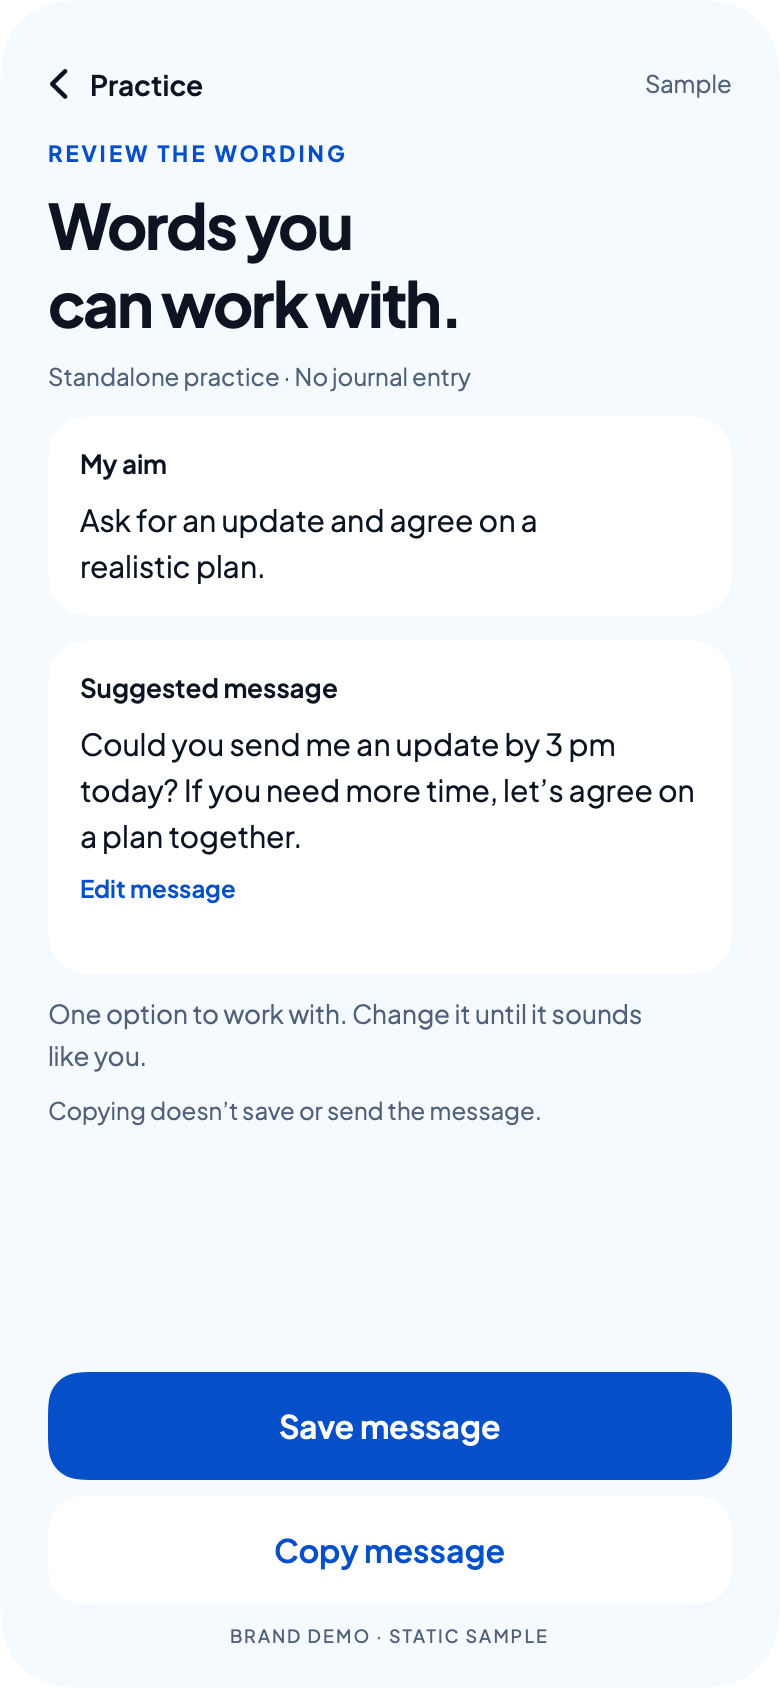
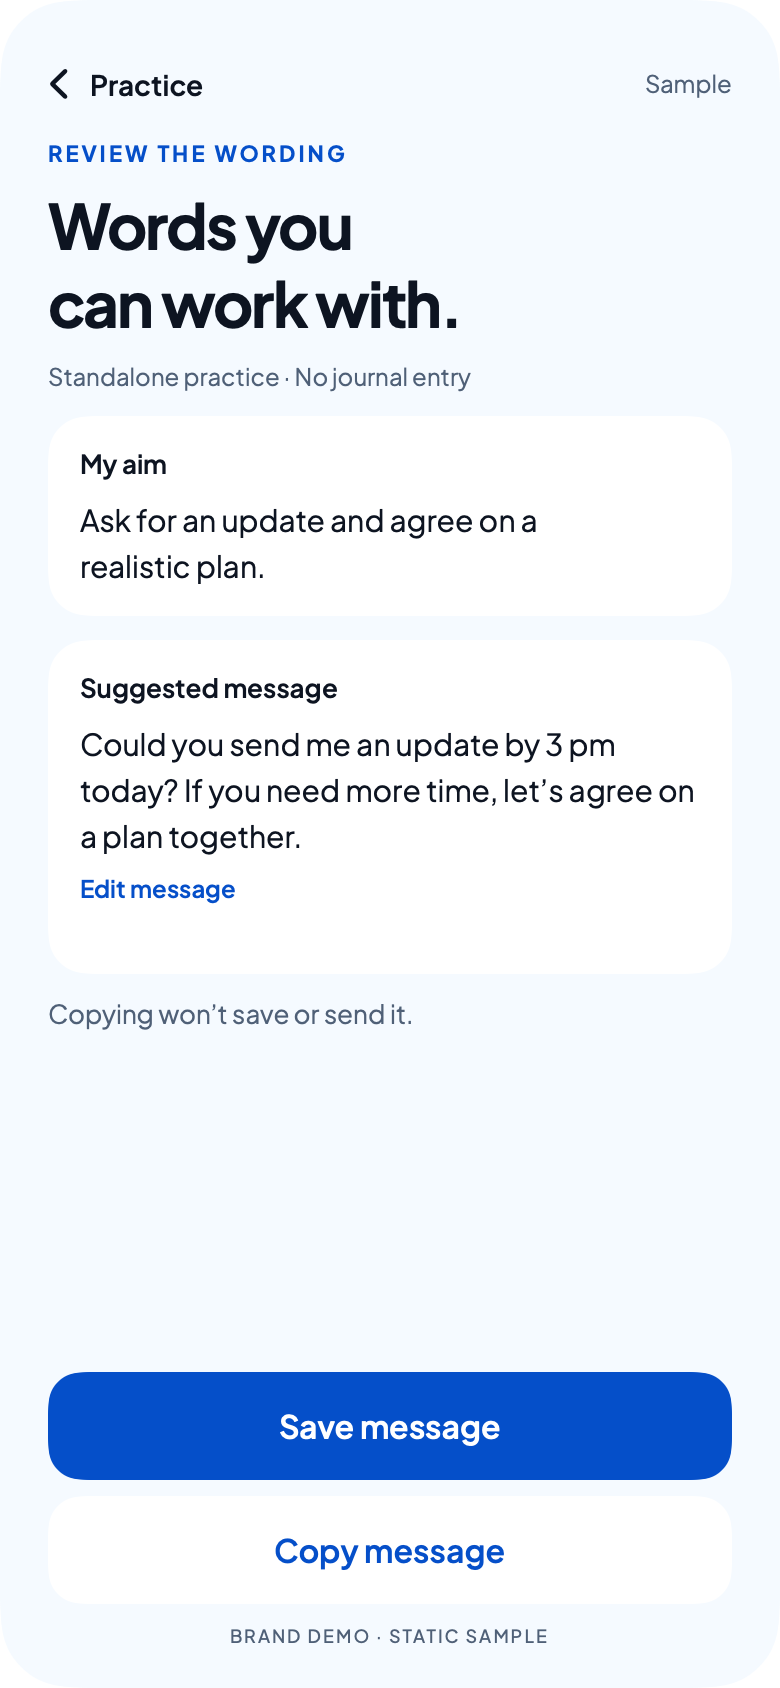
feat(prototype): trim Today, Journal and Practice board copy
Apply the concise-copy proposals: one heading, at most one short line,
one primary action. Drop the Today eyebrow and supporting lines, shorten
capture/reflection/practice helpers, collapse the next-step block into
one link, say "Copying won't save or send it" once, and remove "Back to
Journal/Practice" links that duplicate the Back control. Sample
eyebrows stay (milestone sample-label rule). Renders regenerated.

The CircleU Preview host can now show these boards with --board for
Simulator review and accessibility audits.

Changed region(s): [[0.0615, 0.5853, 0.8308, 0.6777], [0.3077, 0.6469, 0.6769, 0.6777]]

diff --git a/Prototypes/CircleUVisualPrototype/Sources/CircleUVisualPrototype/BrandJourneyPreview.swift b/Prototypes/CircleUVisualPrototype/Sources/CircleUVisualPrototype/BrandJourneyPreview.swift
@@ -96,7 +96,7 @@ public struct BrandJourneyPreview: View {
     private var content: some View {
         switch screen {
         case .capture:
-            BrandFixture.detail(iconLed ? "What happened?" : "What happened, and what matters to you?")
+            BrandFixture.detail("What happened?")
             block("Your words", text: originalWords, minimumHeight: 185)
             if iconLed {
                 HStack(spacing: 10) {
@@ -107,16 +107,14 @@ public struct BrandJourneyPreview: View {
             } else {
                 HStack(spacing: 8) {
                     Image(systemName: "mic").font(.system(size: 14))
-                    Text("Prefer to speak? Record your words.").font(BrandDemoFont.font(12, .medium))
+                    Text("Record").font(BrandDemoFont.font(12, .medium))
                 }
                 .foregroundStyle(BrandDemoColor.blue).padding(.vertical, 4)
-                BrandFixture.detail("You can keep just your words. A reflection and next step are optional.", size: 13)
             }
         case .reflection:
             if !iconLed { BrandFixture.detail("A suggestion to consider. Change anything that doesn’t fit.") }
             block("My words", text: originalWords, edit: "Edit my words")
             block("Suggested reflection", text: "You might feel frustrated and worried. A clear update and a shared plan may help.", edit: "Edit reflection")
-            if !iconLed { BrandFixture.detail("Your words stay separate from this interpretation.", size: 12) }
         case .entry:
             if iconLed { chip("Saved · 24 Oct · 10:30 am", symbol: "checkmark.circle") }
             else { BrandFixture.detail("24 October 2026 · 10:30 am", size: 12) }
@@ -131,13 +129,9 @@ public struct BrandJourneyPreview: View {
                 }
                 .padding(16).background(.white, in: RoundedRectangle(cornerRadius: 18))
             } else {
-                VStack(alignment: .leading, spacing: 7) {
-                    Text("Next step · optional").font(BrandDemoFont.font(13, .semibold))
-                    Text("No step chosen").font(BrandDemoFont.font(13)).foregroundStyle(BrandDemoColor.muted)
-                    Text("Add a next step").font(BrandDemoFont.font(12, .semibold)).foregroundStyle(BrandDemoColor.blue)
-                }
-                .padding(14).frame(maxWidth: .infinity, alignment: .leading)
-                .overlay(RoundedRectangle(cornerRadius: 18).stroke(BrandDemoColor.blue.opacity(0.13)))
+                Text("Add a next step").font(BrandDemoFont.font(14, .semibold)).foregroundStyle(BrandDemoColor.blue)
+                    .padding(14).frame(maxWidth: .infinity, alignment: .leading)
+                    .overlay(RoundedRectangle(cornerRadius: 18).stroke(BrandDemoColor.blue.opacity(0.13)))
             }
         case .practiceContext:
             if iconLed {
@@ -145,8 +139,8 @@ public struct BrandJourneyPreview: View {
                      symbol: linkedContext ? "link" : "bubble.left")
             } else {
                 BrandFixture.detail(linkedContext
-                    ? "Only this reflection is carried over. Check it before continuing."
-                    : "No journal entry needed. What would you like to say?")
+                    ? "Only this reflection is carried over."
+                    : "What would you like to say?")
             }
             if linkedContext {
                 block(updatedSource ? "Updated reflection · The group deadline" : "From · The group deadline",
@@ -162,7 +156,7 @@ public struct BrandJourneyPreview: View {
             block("My draft · optional", text: "Could you let me know where things stand?")
             if updatedSource {
                 if iconLed { note("Draft kept. Review earlier wording.", symbol: "exclamationmark.circle") }
-                else { BrandFixture.detail("Your draft stays here. Earlier wording needs review because the reflection changed.", size: 13) }
+                else { BrandFixture.detail("Draft kept. The reflection changed, so review the wording.", size: 13) }
             }
         case .wording:
             if iconLed { chip(linkedContext ? "From The group deadline" : "Standalone", symbol: linkedContext ? "link" : "bubble.left") }
@@ -171,15 +165,14 @@ public struct BrandJourneyPreview: View {
             block("Suggested message", text: message, edit: "Edit message", minimumHeight: 135)
             if iconLed { note("Copy won’t save or send.", symbol: "doc.on.doc") }
             else {
-                BrandFixture.detail("One option to work with. Change it until it sounds like you.", size: 13)
-                BrandFixture.detail("Copying doesn’t save or send the message.", size: 12)
+                BrandFixture.detail("Copying won’t save or send it.", size: 13)
             }
         case .practiceDetail:
             if iconLed { chip(linkedContext ? "From The group deadline" : "24 Oct · Standalone", symbol: linkedContext ? "link" : "clock") }
             else { BrandFixture.detail(linkedContext ? "Source · The group deadline" : "Standalone message · 24 October 2026", size: 12) }
             block("My message", text: message, edit: "Edit message", minimumHeight: 135)
             if iconLed { note("Saved · Not sent", symbol: "checkmark.circle") }
-            else { BrandFixture.detail("Saved here for you to revisit. Nothing is sent for you.", size: 13) }
+            else { BrandFixture.detail("Saved · not sent", size: 13) }
         }
     }
 
@@ -194,8 +187,6 @@ public struct BrandJourneyPreview: View {
             action("Save only my words", symbol: "square.and.arrow.down", primary: false)
         case .entry:
             action("Practice from this entry", symbol: "bubble.left.and.bubble.right")
-            Text("Back to Journal").font(BrandDemoFont.font(14, .semibold))
-                .foregroundStyle(BrandDemoColor.blue).frame(maxWidth: .infinity).frame(height: 34)
         case .practiceContext:
             action(updatedSource ? "Review updated wording" : "Find some words", symbol: updatedSource ? "arrow.clockwise" : "text.bubble")
             Text("Keep draft").font(BrandDemoFont.font(14, .semibold))
@@ -205,8 +196,6 @@ public struct BrandJourneyPreview: View {
             action("Copy message", symbol: "doc.on.doc", primary: false)
         case .practiceDetail:
             action("Copy message", symbol: "doc.on.doc")
-            Text("Back to Practice").font(BrandDemoFont.font(14, .semibold))
-                .foregroundStyle(BrandDemoColor.blue).frame(maxWidth: .infinity).frame(height: 34)
         }
     }
 

diff --git a/Prototypes/CircleUVisualPrototype/CircleUPreviewHost/CircleUPreviewHost/ContentView.swift b/Prototypes/CircleUVisualPrototype/CircleUPreviewHost/CircleUPreviewHost/ContentView.swift
@@ -4,20 +4,45 @@ import CircleUVisualPrototype
 struct ContentView: View {
     var body: some View {
         NavigationStack {
-            BrandOnboardingPreview(initialScreen: launchValue("--screen", default: .logIn),
-                                   recoveryScreen: launchValue("--recovery-screen", default: .logIn),
-                                   recoveryScenario: launchValue("--scenario", default: .available))
-                .toolbar(.hidden, for: .navigationBar)
+            Group {
+                if let board = launchArgument("--board") {
+                    boardView(board)
+                } else {
+                    BrandOnboardingPreview(initialScreen: launchValue("--screen", default: .logIn),
+                                           recoveryScreen: launchValue("--recovery-screen", default: .logIn),
+                                           recoveryScenario: launchValue("--scenario", default: .available))
+                }
+            }
+            .toolbar(.hidden, for: .navigationBar)
         }
+    }
+
+    /// Static Today/Journal/Practice boards for review and audits, e.g. `--board wording`.
+    /// They are fixed-size 390 × 844 specimens; nothing on them is interactive.
+    @ViewBuilder private func boardView(_ name: String) -> some View {
+        Group {
+            if let hub = PrototypeScreen.allCases.first(where: { $0.rawValue.lowercased() == name }) {
+                BrandHubPreview(screen: hub)
+            } else if let journey = BrandJourneyScreen(rawValue: name) {
+                BrandJourneyPreview(screen: journey)
+            } else {
+                Text("Unknown board: \(name)")
+            }
+        }
+        .frame(width: 390, height: 844)
     }
 
     /// Review-only fixture selection, e.g. `--recovery-screen newPassword`, so UI tests and
     /// audits can open any fixture without editing this file. Normal launches start at Log in.
     private func launchValue<Value: RawRepresentable>(_ flag: String, default fallback: Value) -> Value
     where Value.RawValue == String {
+        launchArgument(flag).flatMap(Value.init(rawValue:)) ?? fallback
+    }
+
+    private func launchArgument(_ flag: String) -> String? {
         let args = ProcessInfo.processInfo.arguments
-        guard let index = args.firstIndex(of: flag), args.indices.contains(index + 1) else { return fallback }
-        return Value(rawValue: args[index + 1]) ?? fallback
+        guard let index = args.firstIndex(of: flag), args.indices.contains(index + 1) else { return nil }
+        return args[index + 1]
     }
 }
 

diff --git a/Prototypes/CircleUVisualPrototype/Sources/CircleUVisualPrototype/BrandDemo.swift b/Prototypes/CircleUVisualPrototype/Sources/CircleUVisualPrototype/BrandDemo.swift
@@ -77,15 +77,9 @@ public struct BrandTodayPreview: View {
             }
             .padding(.top, 12)
 
-            Text("TODAY").font(BrandDemoFont.font(11, .bold)).tracking(2)
-                .foregroundStyle(BrandDemoColor.blue).padding(.top, 30)
             Text("What’s on\nyour mind?")
                 .font(BrandDemoFont.font(33, .bold)).tracking(-1.2)
-                .lineSpacing(0).padding(.top, 8)
-                .fixedSize(horizontal: false, vertical: true)
-            Text("Make sense of a moment.\nFind words that feel like you.")
-                .font(BrandDemoFont.font(16)).lineSpacing(5)
-                .foregroundStyle(BrandDemoColor.muted).padding(.top, 12)
+                .lineSpacing(0).padding(.top, 38)
                 .fixedSize(horizontal: false, vertical: true)
 
             BrandArtwork(name: "BrandAvatar")
@@ -112,9 +106,6 @@ public struct BrandTodayPreview: View {
             }
             .padding(14).background(.white, in: RoundedRectangle(cornerRadius: 18)).padding(.top, 12)
 
-            Text("Or find your words in Practice.")
-                .font(BrandDemoFont.font(13)).foregroundStyle(BrandDemoColor.muted)
-                .frame(maxWidth: .infinity).padding(.top, 18)
             Spacer(minLength: 12)
 
             HStack(spacing: 8) {

diff --git a/Prototypes/CircleUVisualPrototype/Sources/CircleUVisualPrototype/BrandFlowPreview.swift b/Prototypes/CircleUVisualPrototype/Sources/CircleUVisualPrototype/BrandFlowPreview.swift
@@ -92,11 +92,7 @@ public struct BrandHubPreview: View {
                         .frame(width: 48, height: 48)
                 }
                 .padding(.top, 12)
-                BrandFixture.title(screen == .journal ? "Your moments,\nready to revisit." : "Find words\nthat fit you.")
-                BrandFixture.detail(screen == .journal
-                    ? "Your words, reflections and next steps, together."
-                    : "Try a message on its own, or build on a reflection.")
-                    .padding(.top, 12)
+                BrandFixture.title(screen == .journal ? "Your moments" : "Find your words")
 
                 if screen == .journal {
                     HStack(spacing: 10) {
@@ -128,8 +124,6 @@ public struct BrandHubPreview: View {
                         title: "Making some space", subtitle: "Yesterday · Standalone message",
                         body: "I can’t take this on today. Could we talk tomorrow?"
                     ).padding(.top, 12)
-                    BrandFixture.detail("Copy a message when you’re ready. Nothing is sent for you.", size: 12)
-                        .padding(.horizontal, 4).padding(.top, 18)
                     Spacer(minLength: 12)
                 }
                 BrandFixture.tabs(selected: screen)
